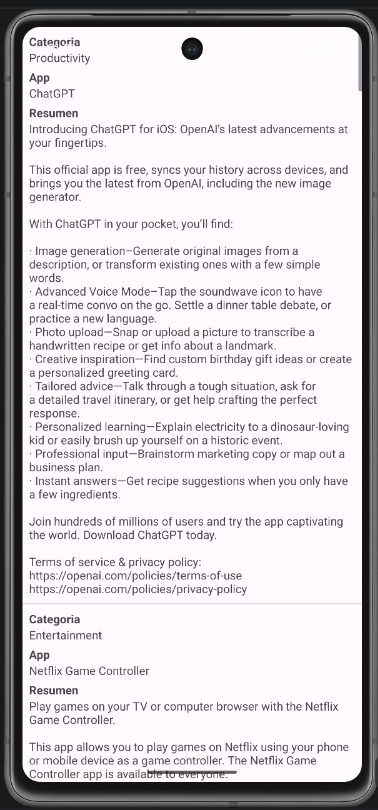
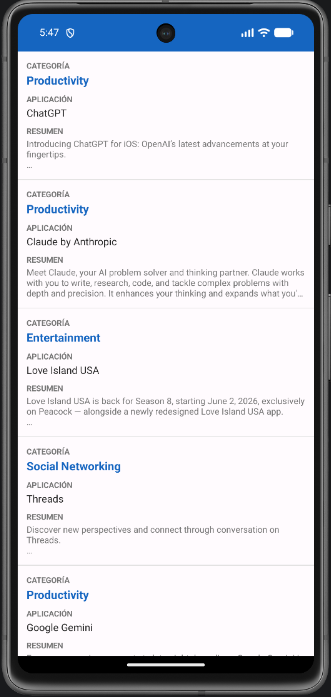
docs: actualizar readme y capturas

diff --git a/README.md b/README.md
@@ -8,9 +8,9 @@ Una aplicación nativa para Android desarrollada en **Java** que consume el serv
 
 Para que puedas apreciar el diseño y la interfaz de usuario de la aplicación, aquí tienes las capturas de las diferentes pantallas:
 
-| ⏳ Splash Screen (Bienvenida) | 🏁 Vista Inicial (Menú) | 📱 Listado de Apps | 🏷️ Categorías de Apps |
-|:---:|:---:|:---:|:---:|
-| ![Splash Screen](docs/imagenes/splash_screen.png) | ![Vista Inicial](docs/imagenes/vista%20inicial.png) | ![Lista de Apps](docs/imagenes/Lista%20de%20Apps.png) | ![Categorías de apps](docs/imagenes/Categorias%20de%20apps.png) |
+| ⏳ Splash Screen (Bienvenida) | 🏁 Vista Inicial (Menú) | 📱 Listado de Apps | 🏷️ Categorías de Apps | ⚠️ Pantalla de Error |
+|:---:|:---:|:---:|:---:|:---:|
+| ![Splash Screen](docs/imagenes/splash_screen.png) | ![Vista Inicial](docs/imagenes/vista%20inicial.png) | ![Lista de Apps](docs/imagenes/Lista%20de%20Apps.png) | ![Categorías de apps](docs/imagenes/Categorias%20de%20apps.png) | ![Pantalla de Error](docs/imagenes/error_screen.png) |
 
 ---
 